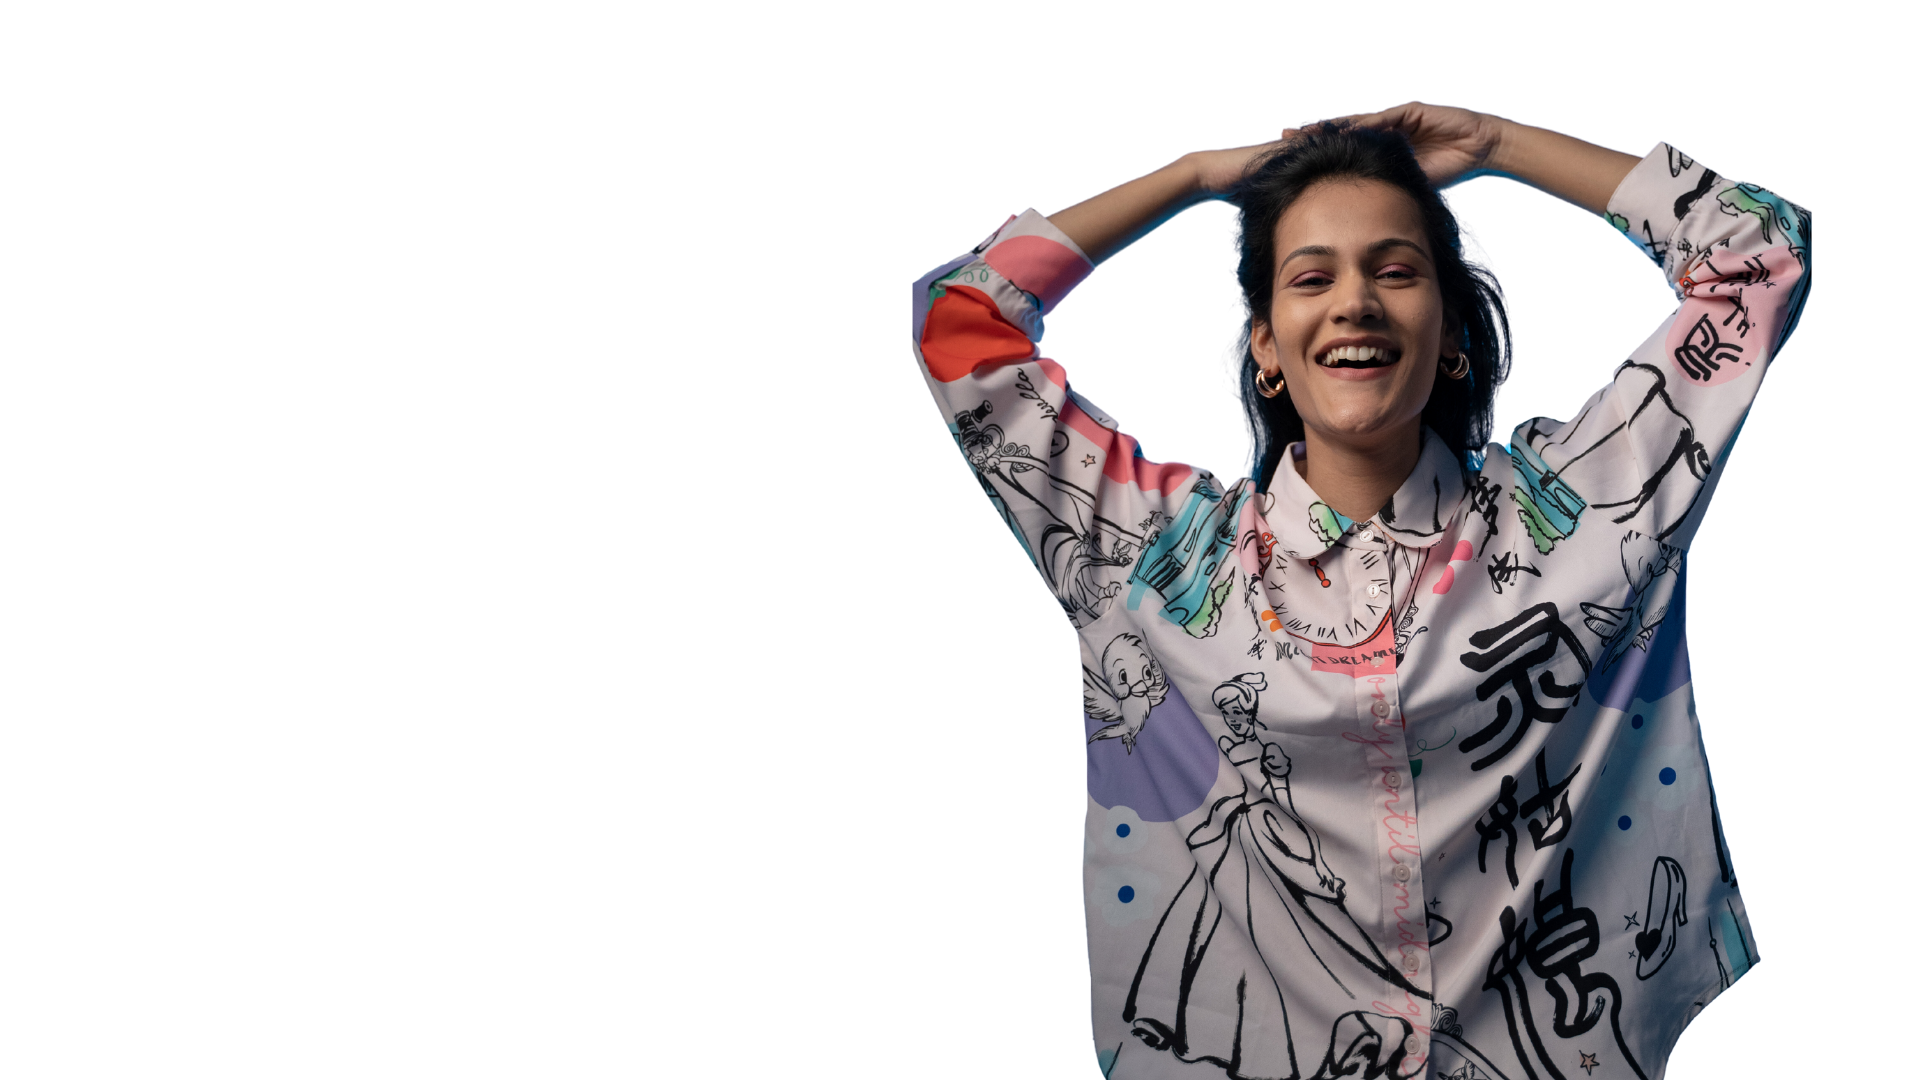
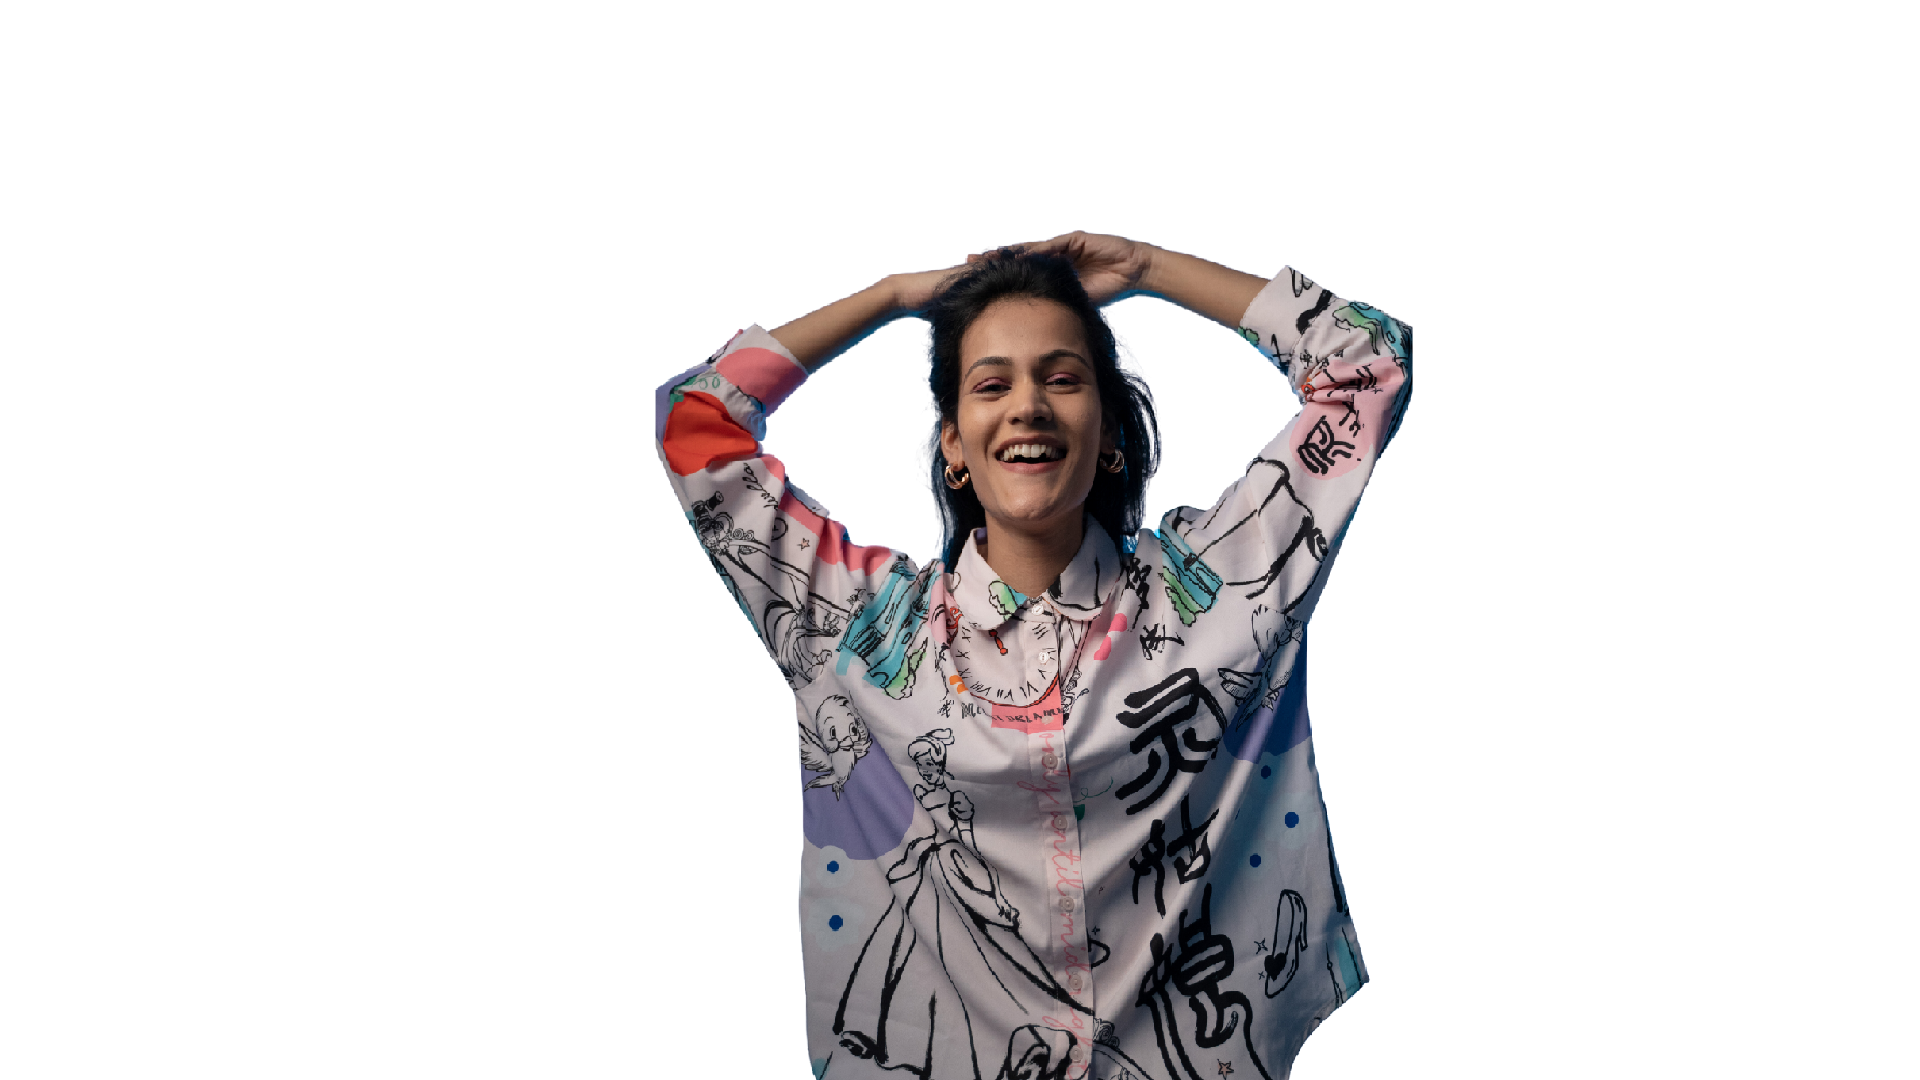
feat- slider image change for mobile view 21/11/2025

diff --git a/src/components/Hero.tsx b/src/components/Hero.tsx
@@ -5,8 +5,9 @@ import instagramIcon from '../assets/icons/instagram.svg'
 // import musicIcon from '../assets/icons/music.svg'
 import spotifyIcon from '../assets/icons/spotify.svg'
 import slidePrimary from '../assets/3.png'
-import slideStudio from '../assets/backofthelatestR.png'
-import slideLive from '../assets/6.png'
+import slideStudio from '../assets/6.png'
+import slideLive from '../assets/backofthelatestR.png'
+import slidePrimaryMobile from '../assets/mobile1stslide.png'
 
 const HERO_VIDEO = '' // Provide a video URL if available
 
@@ -23,6 +24,7 @@ type HeroSlide = {
   heading: string[]
   subtitle: string
   actions?: HeroAction[]
+  mobileImage?: string
 }
 
 type PillKind = 'youtube' | 'tracks' | 'instagram'
@@ -39,6 +41,7 @@ const heroSlides: HeroSlide[] = [
     alt: 'Shubhangi Kedar performing live',
     heading: ['Namaskar, I’m Shubhangii Kedar'],
     subtitle: 'A voice rooted in Maharashtra, resonating around the world',
+    mobileImage: slidePrimaryMobile,
     // actions: [
     //   { label: 'Listen Now', href: '#playlist', variant: 'primary' },
     //   { label: 'Book Me', href: '#contact', variant: 'secondary' },
@@ -85,7 +88,7 @@ export const Hero: React.FC = () => {
   useEffect(() => {
     const id = setInterval(() => {
       setActiveSlide((s) => (s + 1) % heroSlides.length)
-    }, 7000)
+    }, 12000)
     return () => clearInterval(id)
   }, [])
 
@@ -158,13 +161,26 @@ export const Hero: React.FC = () => {
             key={slide.id}
             className={`hero-slide${index === activeSlide ? ' is-active' : ''}`}
           >
-            <img
-              src={slide.image}
-              alt={slide.alt}
-              draggable={false}
-              loading={index === 0 ? 'eager' : 'lazy'}
-              decoding={index === 0 ? 'sync' : 'async'}
-            />
+            {slide.mobileImage ? (
+              <picture>
+                <source media="(max-width: 640px)" srcSet={slide.mobileImage} />
+                <img
+                  src={slide.image}
+                  alt={slide.alt}
+                  draggable={false}
+                  loading={index === 0 ? 'eager' : 'lazy'}
+                  decoding={index === 0 ? 'sync' : 'async'}
+                />
+              </picture>
+            ) : (
+              <img
+                src={slide.image}
+                alt={slide.alt}
+                draggable={false}
+                loading={index === 0 ? 'eager' : 'lazy'}
+                decoding={index === 0 ? 'sync' : 'async'}
+              />
+            )}
           </div>
         ))}
       </div>

diff --git a/src/index.css b/src/index.css
@@ -2347,9 +2347,9 @@ html.is-playing .disc { animation: spinDisc 6s linear infinite; }
 
 @media (max-width: 640px) {
     .container, .container-fluid { padding: 0 20px; }
-    .hero-title { font-size: 60px; }
-    .section-title { font-size: 32px; }
-    .stats { grid-template-columns: 1fr; gap: 20px; }
+    .hero-title { font-size: 40px; }
+    .section-title { font-size: 28px; }
+    .stats { grid-template-columns: 1fr; gap: 16px; }
     .music-grid, .gallery-grid { grid-template-columns: 1fr; }
     .contact-form .btn-primary { width: 100%; }
     /* Mobile mini-player: full-width bar within safe area */

diff --git a/src/components/About.tsx b/src/components/About.tsx
@@ -1,4 +1,4 @@
-import portraitImg from '../assets/3b.png'
+import portraitImg from '../assets/6.png'
 import { CountUp } from './CountUp'
 import instagramIcon from '../assets/icons/instagram.svg'
 import facebookIcon from '../assets/icons/facebook.svg'
